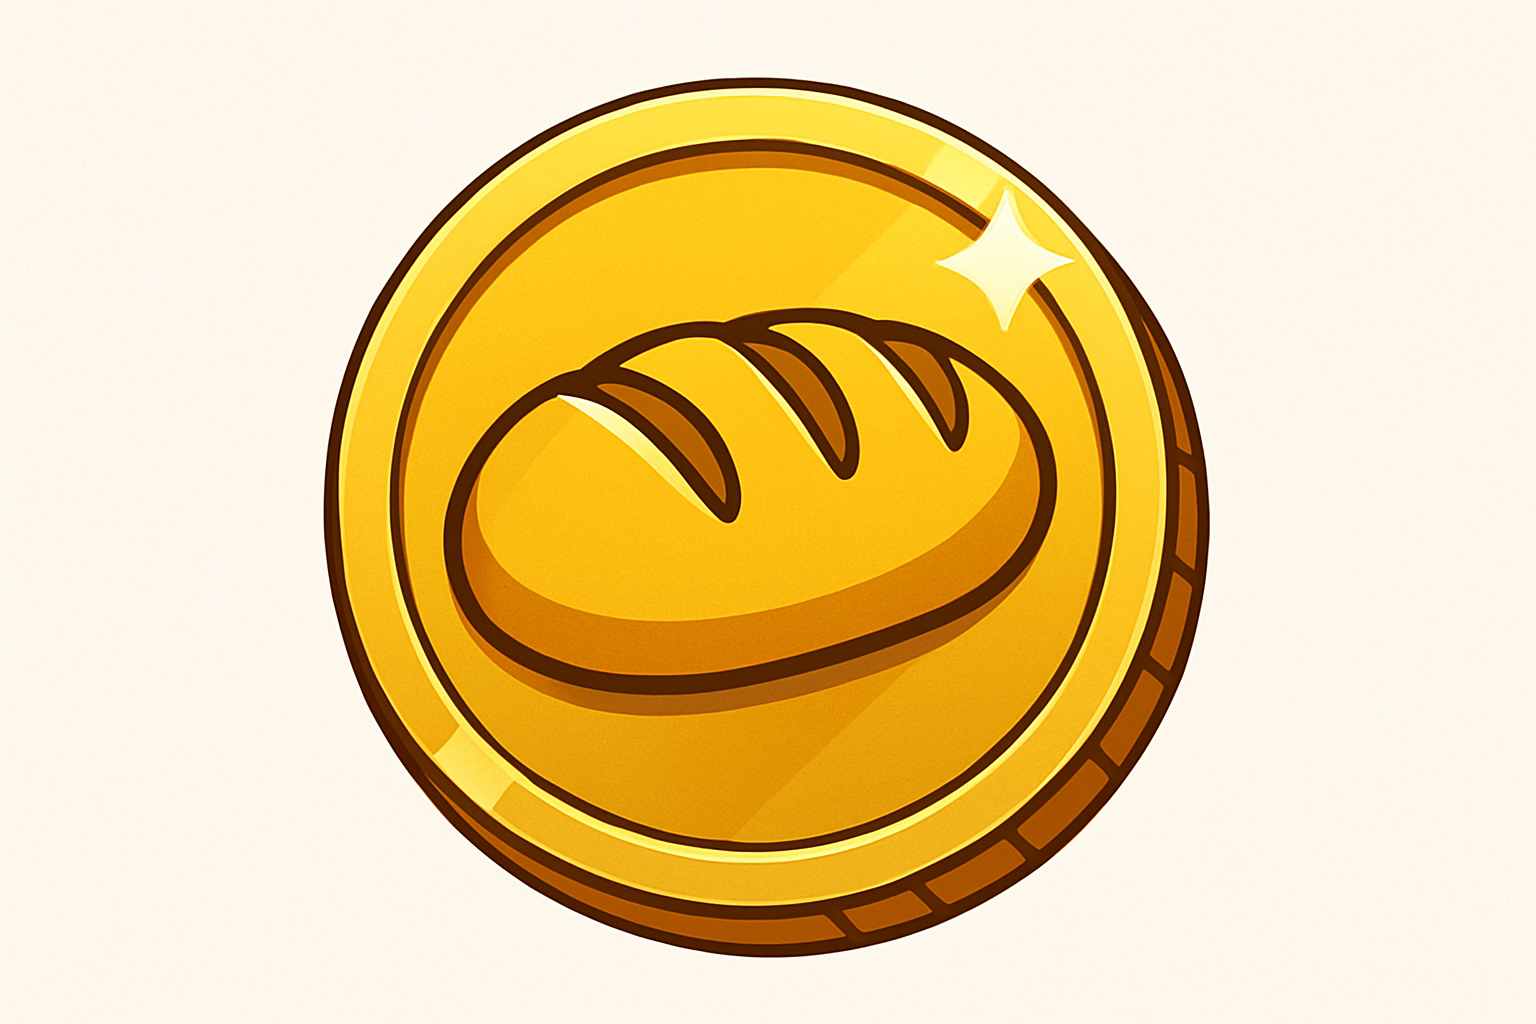
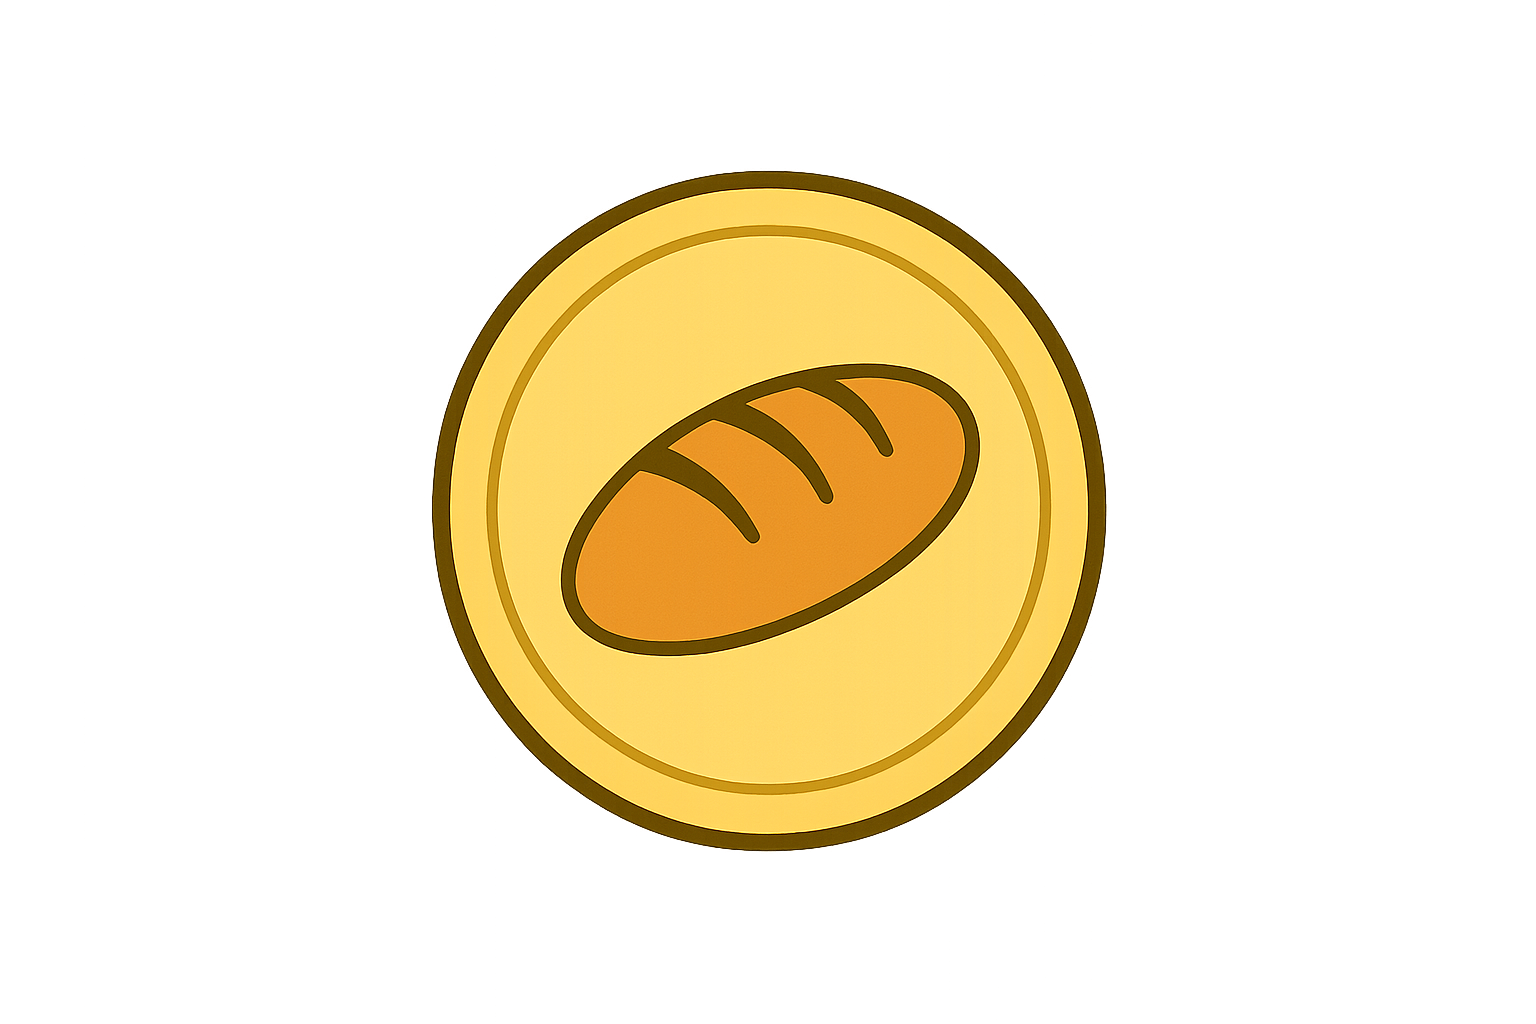
imageese group 1

diff --git a/ContactUs.html b/ContactUs.html
@@ -95,7 +95,7 @@
                 <h2>Goose Facts</h2>
                 <ul class="fun-facts">
                     <li class="a"><img src="Images/ContactUs/sardine-latte.PNG" alt="Sardine Latte"> Our HQ coffee machine dispenses sardine lattes.</li>
-                    <li class="a"><img src="Images/ContactUs/bread-coin.PNG" alt="BreadCoin"> BreadCoin is accepted in 3 bakeries worldwide.</li>
+                    <li class="a"><img src="Images/ContactUs/BreadCoin Visual.PNG" alt="BreadCoin"> BreadCoin is accepted in 3 bakeries worldwide.</li>
                     <li class="a"><img src="Images/ContactUs/penguin-board.PNG" alt="Penguin Board Members"> 70% of our board members are penguins in tuxedos.</li>
                     <li class="a"><img src="Images/ContactUs/honk-hotline.PNG" alt="Honk Hotline"> We have a 24/7 honk hotline for urgent goose matters.</li>
                     <li class="a"><img src="Images/ContactUs/quack-mascot.PNG" alt="Quack Mascot"> Our mascot is a duck in a business suit named Quack.</li>
